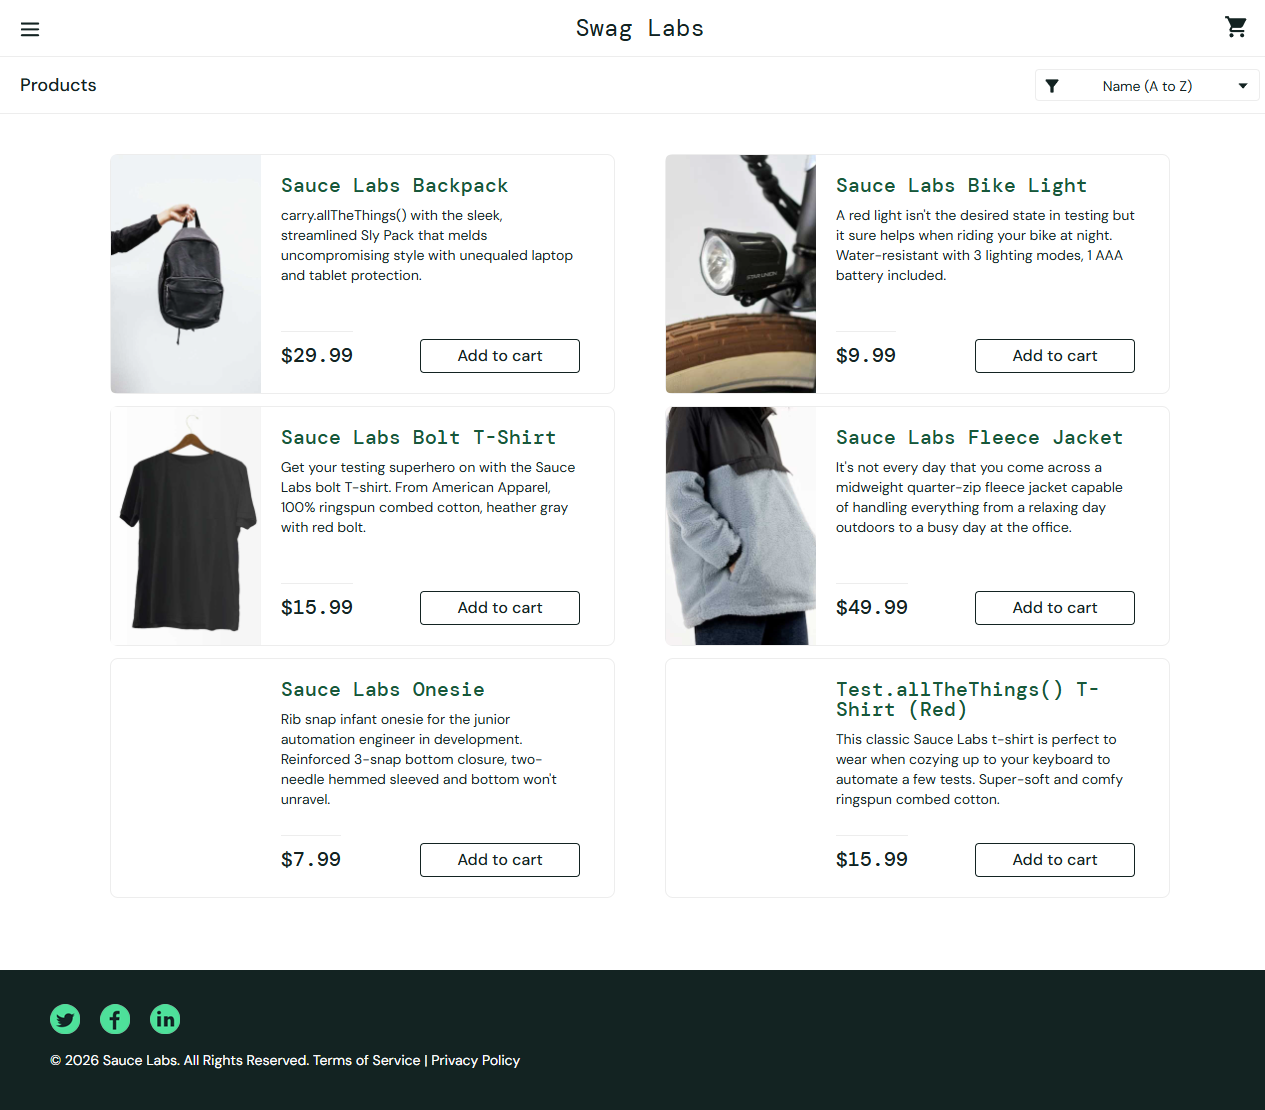
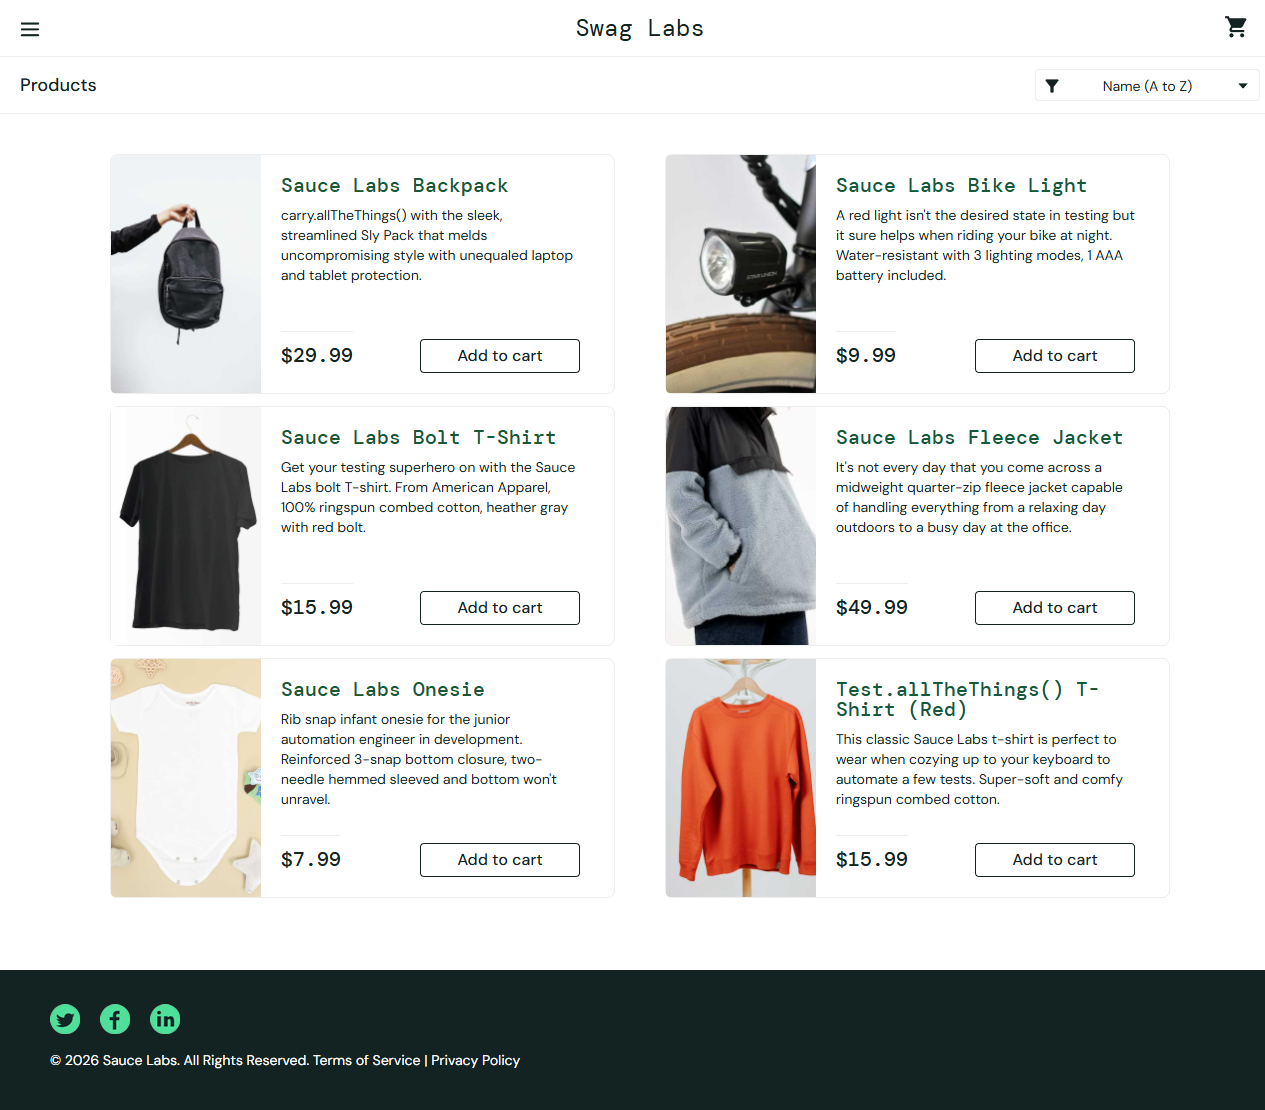
solucion headed worklfow

Changed region(s): [[0.5241, 0.582, 0.6474, 0.827], [0.0617, 0.582, 0.2158, 0.827]]

diff --git a/playwright.config.ts b/playwright.config.ts
@@ -37,7 +37,8 @@ export default defineConfig({
   outputDir: 'test-results',
   /* Shared settings for all the projects below. See https://playwright.dev/docs/api/class-testoptions. */
   use: {
-    headless: false,
+    // Run headed locally but use headless on CI runners
+    headless: !!process.env.CI,
     actionTimeout: 0,
     navigationTimeout: 30000,
     screenshot: 'only-on-failure',